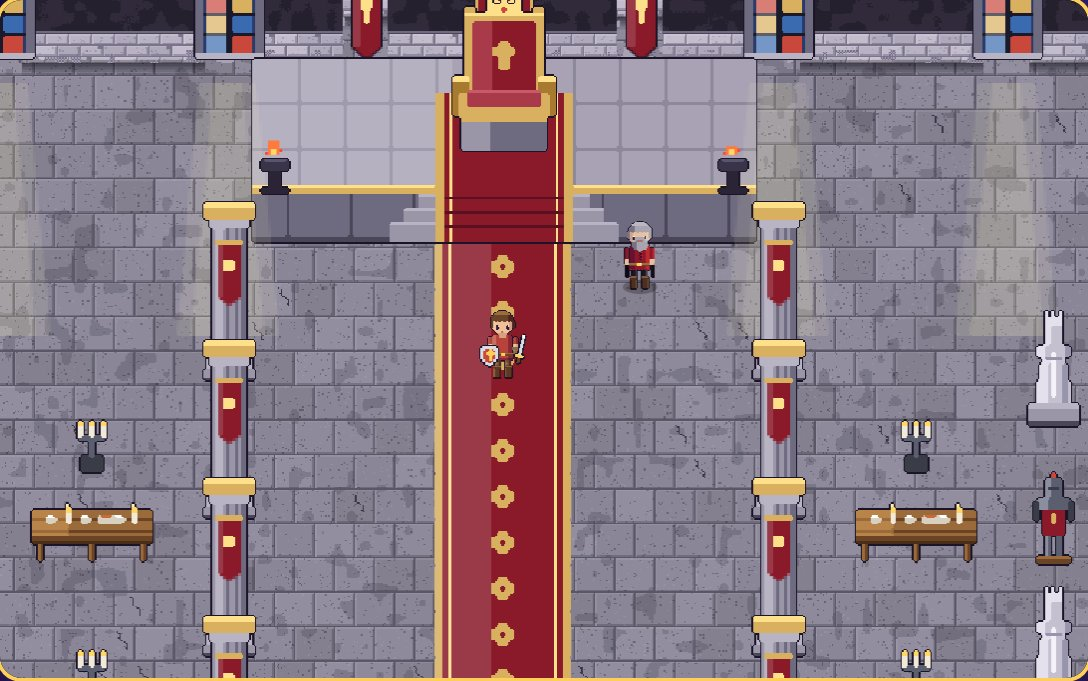
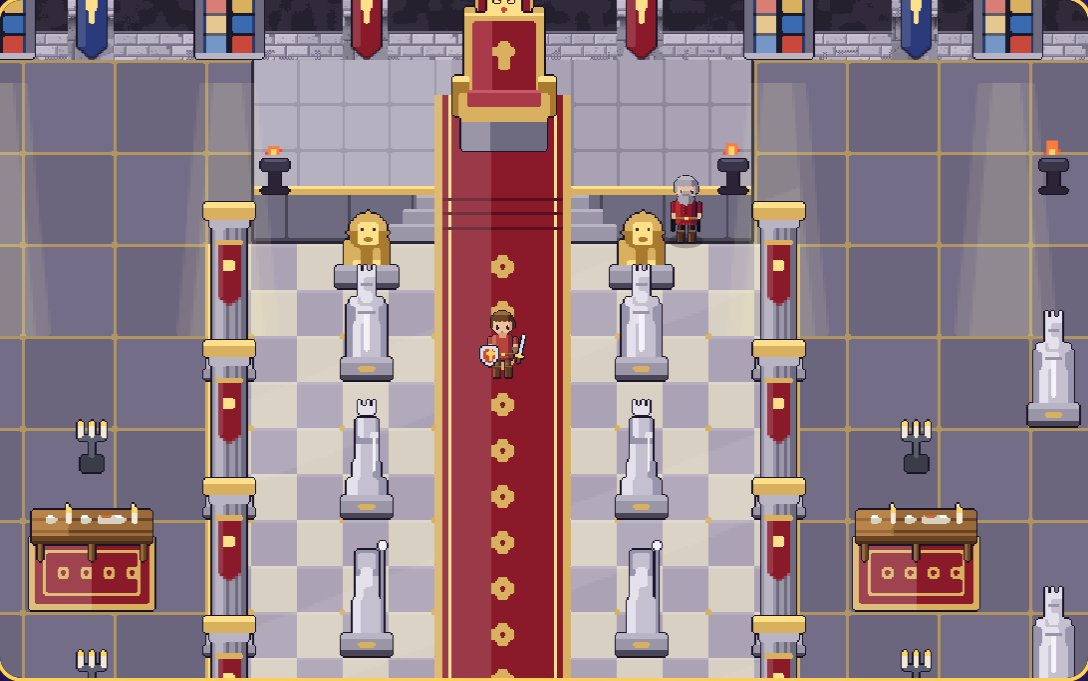
GlitchBound: Sigilfall's Great Hall lined with statues to the throne, its carpet unbroken, its floor marble wall to wall
The owner: line up the different statues sideways, as a path to the throne from both sides; connect the
carpets vertically; the surroundings glorious as well.

- A path of the realm's great in stone either side of the runner, a pair on every row of columns: kings
  (crowned and cloaked, hands on their swords) nearest the throne, then queens with scepters, sages with
  staves, and knights behind their shields nearest the door; gilt lions at the foot of the dais steps.
- One carpet from the door to the throne: the dais draws its own edge, with no line across the foot of its
  carpet where the runner meets it.
- The floor wall to wall: ivory and lilac marble with gilt studs between the colonnades, edged in gold and
  crimson; dark polished slabs with gilt seams in the aisles; the court's tables on rugs, blue banners
  between the windows, fires in the far corners.
- A floor, drawn in order of its top edge, stays in view while any of it shows.

Claude-Session: https://claude.ai/code/session_01C2NvrYDwzAvU6Wa9neeaoe

diff --git a/glitchbound/src/games/sigilfall/render/art/furniture.ts b/glitchbound/src/games/sigilfall/render/art/furniture.ts
@@ -91,6 +91,8 @@ const SIZE: Record<string, [number, number]> = {
   'great-banner': [24, 28],
   statue: [20, 42],
   'armor-stand': [18, 32],
+  lion: [26, 28],
+  'hall-floor': [464, 368],
 };
 
 const GOLD = { lit: '#ffe08a', mid: '#d8b060', dark: '#a87a30' };
@@ -397,6 +399,15 @@ export function furniture(kind: string): Cnv | null {
       rect(g, 69, 12, 1, 52, GOLD.lit);
       rect(g, 106, 12, 1, 52, GOLD.lit);
       for (const y of [48, 53, 58]) rect(g, 67, y, 42, 1, '#5a1020');
+      g.globalAlpha = 0.14;
+      rect(g, 64, 12, 20, 52, '#ffffff');
+      g.globalAlpha = 1;
+      // its own dark edge, drawn here rather than by the outliner: none across the foot of the carpet, which runs on
+      // into the runner below it unbroken
+      rect(g, 0, 0, 1, 64, '#2a2636');
+      rect(g, 175, 0, 1, 64, '#2a2636');
+      rect(g, 0, 63, 64, 1, '#2a2636');
+      rect(g, 112, 63, 64, 1, '#2a2636');
       break;
     }
     case 'high-throne':
@@ -512,47 +523,136 @@ export function furniture(kind: string): Cnv | null {
       break;
     }
     case 'statue': {
-      // a king of old in pale stone on his plinth, crowned, his sword held point down before him
+      // one of the realm's great in pale stone on a plinth with a gilt plaque (`statue:queen`, `:knight`, `:sage`;
+      // a king by default): a king crowned with his sword point down, a queen in her gown with her scepter, a knight
+      // behind his shield, a sage in his hood with his staff
       const M = { lit: '#e4e0ec', mid: '#c4c0d0', dark: '#9894ac' };
+      const who = arg ?? 'king';
       rect(g, 1, 34, 18, 8, STONE.mid);
       rect(g, 1, 34, 18, 2, STONE.lit);
       rect(g, 1, 40, 18, 2, STONE.deep);
-      rect(g, 6, 14, 8, 20, M.mid);
-      rect(g, 5, 20, 10, 14, M.mid);
-      rect(g, 4, 26, 12, 8, M.mid);
-      rect(g, 4, 26, 4, 8, M.lit);
-      rect(g, 5, 20, 3, 6, M.lit);
-      rect(g, 6, 14, 3, 6, M.lit);
-      rect(g, 13, 20, 2, 14, M.dark);
-      rect(g, 4, 14, 12, 4, M.mid);
-      rect(g, 4, 14, 3, 4, M.lit);
-      rect(g, 14, 14, 2, 4, M.dark);
-      rect(g, 7, 7, 6, 7, M.mid);
-      rect(g, 7, 7, 2, 7, M.lit);
-      rect(g, 7, 4, 6, 3, M.lit);
-      for (const x of [7, 9, 12]) rect(g, x, 2, 1, 2, M.lit);
-      rect(g, 9, 16, 2, 16, '#f4f2f8');
-      rect(g, 7, 18, 6, 1, M.dark);
+      rect(g, 7, 37, 6, 2, GOLD.mid);
+      if (who === 'queen') {
+        // her gown flaring to the plinth, her hair down to her shoulders, the crown's tall points, the scepter
+        rect(g, 6, 14, 8, 8, M.mid);
+        rect(g, 5, 22, 10, 6, M.mid);
+        rect(g, 3, 28, 14, 6, M.mid);
+        rect(g, 3, 28, 4, 6, M.lit);
+        rect(g, 5, 22, 3, 6, M.lit);
+        rect(g, 6, 14, 2, 8, M.lit);
+        rect(g, 14, 28, 3, 6, M.dark);
+        rect(g, 12, 22, 3, 6, M.dark);
+        rect(g, 6, 7, 8, 9, M.dark);
+        rect(g, 7, 7, 6, 7, M.mid);
+        rect(g, 7, 7, 2, 7, M.lit);
+        for (const x of [7, 9.5, 12]) rect(g, Math.round(x), 1, 1, 3, M.lit);
+        rect(g, 7, 3, 6, 3, M.lit);
+        rect(g, 12, 13, 1, 13, '#f4f2f8');
+        rect(g, 11, 12, 3, 2, M.lit);
+      } else if (who === 'knight') {
+        // helmed and crested, his kite shield on his arm and his sword before him
+        rect(g, 6, 14, 8, 20, M.mid);
+        rect(g, 5, 24, 10, 10, M.mid);
+        rect(g, 6, 14, 3, 20, M.lit);
+        rect(g, 4, 14, 12, 4, M.mid);
+        rect(g, 4, 14, 3, 4, M.lit);
+        rect(g, 7, 6, 6, 8, M.mid);
+        rect(g, 7, 6, 2, 8, M.lit);
+        rect(g, 8, 9, 4, 1, M.dark);
+        rect(g, 9, 2, 2, 4, M.dark);
+        rect(g, 2, 16, 7, 10, M.lit);
+        rect(g, 3, 26, 5, 3, M.lit);
+        rect(g, 4, 29, 3, 2, M.lit);
+        rect(g, 5, 18, 1, 8, M.dark);
+        rect(g, 3, 20, 5, 1, M.dark);
+        rect(g, 13, 16, 2, 16, '#f4f2f8');
+        rect(g, 11, 18, 6, 1, M.dark);
+      } else if (who === 'sage') {
+        // hooded and bearded, his staff and its orb
+        rect(g, 6, 12, 8, 22, M.mid);
+        rect(g, 5, 22, 10, 12, M.mid);
+        rect(g, 5, 22, 3, 12, M.lit);
+        rect(g, 6, 12, 3, 10, M.lit);
+        rect(g, 6, 5, 8, 9, M.dark);
+        rect(g, 7, 6, 6, 6, M.mid);
+        rect(g, 8, 11, 4, 7, M.lit);
+        rect(g, 15, 4, 1, 30, M.dark);
+        rect(g, 14, 2, 3, 3, '#f4f2f8');
+      } else {
+        // his cloak behind him to the plinth, his beard, his hands crossed on the hilt of his sword
+        rect(g, 3, 15, 14, 19, M.dark);
+        rect(g, 6, 14, 8, 20, M.mid);
+        rect(g, 5, 22, 10, 12, M.mid);
+        rect(g, 5, 22, 3, 12, M.lit);
+        rect(g, 6, 14, 3, 8, M.lit);
+        rect(g, 4, 13, 12, 3, M.mid);
+        rect(g, 4, 13, 3, 3, M.lit);
+        rect(g, 7, 6, 6, 7, M.mid);
+        rect(g, 7, 6, 2, 7, M.lit);
+        rect(g, 8, 8, 4, 1, M.dark);
+        rect(g, 8, 11, 4, 4, M.lit);
+        rect(g, 7, 4, 6, 2, M.lit);
+        for (const x of [7, 9, 12]) rect(g, x, 2, 1, 2, M.lit);
+        rect(g, 9, 19, 2, 13, '#f4f2f8');
+        rect(g, 7, 18, 6, 1, M.dark);
+        rect(g, 8, 16, 4, 2, M.lit);
+      }
       break;
     }
-    case 'armor-stand':
-      // a knight's harness on its stand, the crown's colors on its tabard
-      rect(g, 3, 29, 12, 3, WOOD.dark);
-      rect(g, 3, 29, 12, 1, WOOD.mid);
-      rect(g, 6, 20, 2, 9, IRON.mid);
-      rect(g, 10, 20, 2, 9, IRON.mid);
-      rect(g, 6, 20, 1, 9, IRON.lit);
-      rect(g, 5, 12, 8, 10, tint ?? '#8a1a2a');
-      rect(g, 8, 14, 2, 4, GOLD.mid);
-      rect(g, 3, 9, 12, 4, IRON.mid);
-      rect(g, 3, 9, 4, 4, IRON.lit);
-      rect(g, 2, 10, 2, 7, IRON.dark);
-      rect(g, 14, 10, 2, 7, IRON.dark);
-      rect(g, 6, 2, 6, 7, IRON.mid);
-      rect(g, 6, 2, 2, 7, IRON.lit);
-      rect(g, 7, 5, 4, 1, IRON.dark);
-      rect(g, 8, 0, 2, 2, '#c9473b');
+    case 'lion':
+      // a gilt lion sitting up on its plinth, its mane about its face, its forepaws together
+      rect(g, 2, 20, 22, 8, STONE.mid);
+      rect(g, 2, 20, 22, 2, STONE.lit);
+      rect(g, 2, 26, 22, 2, STONE.deep);
+      rect(g, 5, 11, 16, 9, GOLD.dark);
+      rect(g, 5, 11, 5, 9, GOLD.mid);
+      for (let y = -7; y <= 7; y++) {
+        const w = Math.floor(Math.sqrt(49 - y * y));
+        rect(g, 13 - w, 8 + y, w * 2 + 1, 1, y < 0 ? GOLD.mid : GOLD.dark);
+      }
+      rect(g, 10, 5, 7, 8, GOLD.lit);
+      rect(g, 11, 7, 1, 1, '#3a2a10');
+      rect(g, 15, 7, 1, 1, '#3a2a10');
+      rect(g, 12, 10, 3, 2, GOLD.dark);
+      rect(g, 8, 14, 3, 6, GOLD.mid);
+      rect(g, 15, 14, 3, 6, GOLD.mid);
+      rect(g, 8, 18, 3, 2, GOLD.lit);
+      rect(g, 15, 18, 3, 2, GOLD.lit);
       break;
+    case 'hall-floor': {
+      // the Great Hall's floor, wall to wall from the dais to the door (laid flat, its own edges): dark polished slabs
+      // with gilt seams in the aisles; between the colonnades (from 128 to 336, below the dais) ivory and lilac
+      // marble with a gilt stud where four stones meet, a band of gold and crimson down each side and across its foot
+      for (let y = 0; y < 368; y += 32) for (let x = 0; x < 464; x += 32) rect(g, x, y, 32, 32, (x / 32 + y / 32) % 2 ? '#5c5470' : '#655d7a');
+      for (let y = 0; y < 368; y += 32) rect(g, 0, y, 464, 1, '#a88a50');
+      for (let x = 0; x < 464; x += 32) rect(g, x, 0, 1, 368, '#a88a50');
+      g.globalAlpha = 0.1;
+      rect(g, 0, 0, 464, 368, '#ffffff');
+      g.globalAlpha = 1;
+      for (let y = 64; y < 368; y += 16) for (let x = 128; x < 336; x += 16) rect(g, x, y, 16, 16, ((x - 128) / 16 + (y - 64) / 16) % 2 ? '#aca2b6' : '#d8d0c2');
+      for (let y = 64; y < 368; y += 16) rect(g, 128, y, 208, 1, '#ffffff22');
+      for (let y = 96; y < 368; y += 32) for (let x = 144; x < 336; x += 32) rect(g, x - 1, y - 1, 2, 2, GOLD.mid);
+      g.fillStyle = '#ffffff';
+      g.globalAlpha = 0.08;
+      for (let k = 0; k < 4; k++) {
+        g.beginPath();
+        g.moveTo(128, 124 + k * 80);
+        g.lineTo(336, 44 + k * 80);
+        g.lineTo(336, 74 + k * 80);
+        g.lineTo(128, 154 + k * 80);
+        g.fill();
+      }
+      g.globalAlpha = 1;
+      for (const x of [128, 329]) {
+        rect(g, x, 64, 7, 304, GOLD.mid);
+        rect(g, x + 1, 64, 1, 304, GOLD.lit);
+      }
+      rect(g, 135, 64, 2, 304, '#5a1020');
+      rect(g, 327, 64, 2, 304, '#5a1020');
+      rect(g, 128, 362, 208, 6, GOLD.mid);
+      rect(g, 128, 362, 208, 1, GOLD.lit);
+      break;
+    }
     case 'forge':
       rect(g, 1, 8, 30, 20, STONE.dark);
       rect(g, 1, 8, 9, 20, STONE.mid);
@@ -602,7 +702,10 @@ export function furniture(kind: string): Cnv | null {
 }
 
 /** Furniture laid flat on the floor (drawn under the people standing on it). */
-export const FLAT_FURNITURE = new Set(['rug', 'runner', 'dais', 'sunbeam']);
+export const FLAT_FURNITURE = new Set(['rug', 'runner', 'dais', 'sunbeam', 'hall-floor']);
 
-/** Furniture drawn without an outline: a runner laid end to end, a window's light on the floor. */
-export const BARE_FURNITURE = new Set(['runner', 'sunbeam']);
+/**
+ * Furniture drawn without an outline: a runner laid end to end, a window's light on the floor, and the floors
+ * that draw their own edge (the dais's carpet runs on into the runner, without a line across it).
+ */
+export const BARE_FURNITURE = new Set(['runner', 'sunbeam', 'dais', 'hall-floor']);

diff --git a/glitchbound/src/games/sigilfall/data/interiors.ts b/glitchbound/src/games/sigilfall/data/interiors.ts
@@ -188,34 +188,54 @@ function emberHearth(): CityPlan {
 /* ------------------------------------------------------ the Crown City: the Great Hall */
 
 /**
- * The Great Hall of the Ember Keep (the owner: "inside also seems empty, make it feel glorious"): a long hall
- * of columns under tall windows of colored glass, their light across the floor; a crimson runner from the
- * door up the steps of the dais to the high throne between its braziers, the crown's banner over it; the kings
- * and queens of old in stone along the walls, armor between them; the court's long tables in the aisles.
+ * The Great Hall of the Ember Keep (the owner: "inside also seems empty, make it feel glorious"; then: the statues
+ * lined up either side as a path to the throne, the carpets joined, all round it glorious): a long hall of
+ * columns under tall windows of colored glass, their light across the floor; a floor of dark polished stone with
+ * gilt seams, and between the colonnades one of ivory marble edged in gold, and down it the crimson runner from the door up the steps of the dais to the
+ * high throne between its braziers, the crown's banner over it, gilt lions at the foot of the steps; either side
+ * of the runner the realm's great in stone, kings, queens, knights and sages, a path of them to the throne; in the
+ * aisles the old kings along the walls, armor between them, the court's long tables on their rugs.
  */
 function greatHall(): CityPlan {
   const c = room(31, 26, 822, false, 15, { to: 'emberwick', label: 'Out into the Crown City' });
-  // the north wall: its windows, the crown's banner over the throne, banners either side of it
+  // the north wall: its windows, the crown's banner over the throne, banners either side of it and between them
   for (const x of [4, 9, 21, 26]) {
     c.prop('window', x, 1);
     c.prop('sunbeam', x, 7, false);
   }
   c.prop('great-banner', 15, 1);
   for (const x of [12, 18]) c.prop('banner:#8a1a2a', x, 1);
-  // the dais and the high throne on it, between its braziers; the Steward at its foot
+  for (const x of [6, 24]) c.prop('banner:#2a3a7a', x, 1);
+  // the floor, wall to wall (laid before the dais, which stands on it); the dais and the high throne on it, between
+  // its braziers; the Steward beside it
+  c.prop('hall-floor', 15, 24, false);
   c.prop('dais', 15, 5, false);
   wide(c, 'high-throne', 15, 3, 3);
   c.set(10, 4, 'brazier');
   c.set(20, 4, 'brazier');
-  c.npc('steward-aldous', 18, 6);
-  // the runner, from the door to the dais
+  c.npc('steward-aldous', 19, 5);
+  // the runner from the door to the dais (its carpet runs on up the steps)
   for (let y = 6; y <= 24; y++) c.prop('runner:#8a1a2a', 15, y, false);
+  // gilt lions at the foot of the steps; then the path of the realm's great in stone either side of the runner, up
+  // to them from the door: knights nearest the door, then sages, queens and kings nearest the throne
+  c.prop('lion', 12, 6);
+  c.prop('lion', 18, 6);
+  for (const [y, who] of [
+    [8, 'king'],
+    [11, 'queen'],
+    [14, 'sage'],
+    [17, 'knight'],
+    [20, 'knight'],
+  ] as const) {
+    c.prop(`statue:${who}`, 12, y);
+    c.prop(`statue:${who}`, 18, y);
+  }
   // the colonnades, the crown's banner on every column
   for (const y of [8, 11, 14, 17, 20]) {
     c.prop('column:#8a1a2a', 9, y);
     c.prop('column:#8a1a2a', 21, y);
   }
-  // the aisles: the kings and queens of old in stone along the walls, armor between them
+  // the aisles: the old kings in stone along the walls, armor between them, fires in the corners
   for (const y of [9, 15, 21]) {
     c.prop('statue', 3, y);
     c.prop('statue', 27, y);
@@ -224,7 +244,11 @@ function greatHall(): CityPlan {
     c.prop('armor-stand', 3, y);
     c.prop('armor-stand', 27, y);
   }
-  // the long tables of the court, and from the Night of Knives the war council's map and its racks of arms
+  c.set(3, 4, 'brazier');
+  c.set(27, 4, 'brazier');
+  // the long tables of the court on their rugs, and from the Night of Knives the war council's map and its racks
+  c.prop('rug:#8a1a2a', 6, 13, false);
+  c.prop('rug:#8a1a2a', 24, 13, false);
   wide(c, 'longtable', 6, 12, 3, not(after('festival-the-knives')));
   wide(c, 'war-table', 6, 12, 3, after('festival-the-knives'));
   wide(c, 'longtable', 24, 12, 3);

diff --git a/glitchbound/tests/sigilfall-ember-keep.test.ts b/glitchbound/tests/sigilfall-ember-keep.test.ts
@@ -92,9 +92,28 @@ describe('Sigilfall: the Ember Keep', () => {
     expect(props('dais')[0]!.tx).toBe(throne.tx);
     expect(m.kind[(throne.ty + 1) * m.w + throne.tx - 5]).toBe(K.Brazier);
     expect(m.kind[(throne.ty + 1) * m.w + throne.tx + 5]).toBe(K.Brazier);
-    // glorious, not empty: colonnades, windows, the old kings in stone
+    // glorious, not empty: colonnades, windows, a floor wall to wall
     expect(props('column').length).toBeGreaterThanOrEqual(10);
     expect(props('window').length).toBeGreaterThanOrEqual(4);
-    expect(props('statue').length).toBeGreaterThanOrEqual(6);
+    expect(props('hall-floor')).toHaveLength(1);
+  });
+
+  it('the realm’s great in stone line the runner either side, a path of them to the throne, gilt lions at the steps', () => {
+    const m = parseRegion(REGIONS['great-hall']);
+    const at = (name: string) => m.markers.filter((pm) => pm.marker.kind === 'prop' && pm.marker.prop.split(':')[0] === name);
+    const runner = at('runner')[0]!.tx;
+    const path = at('statue').filter((pm) => Math.abs(pm.tx - runner) === 3);
+    const rows = [...new Set(path.map((pm) => pm.ty))];
+    expect(rows.length).toBeGreaterThanOrEqual(5);
+    // a pair on every row, the same figure either side, and no two rows alike all the way up
+    for (const y of rows) {
+      const pair = path.filter((pm) => pm.ty === y).map((pm) => (pm.marker.kind === 'prop' ? pm.marker.prop : ''));
+      expect(pair, `row ${y}`).toHaveLength(2);
+      expect(pair[0], `row ${y}`).toBe(pair[1]);
+    }
+    expect(new Set(path.map((pm) => (pm.marker.kind === 'prop' ? pm.marker.prop : ''))).size).toBeGreaterThanOrEqual(4);
+    const lions = at('lion');
+    expect(lions.map((pm) => pm.tx - runner).sort()).toEqual([-3, 3]);
+    expect(Math.min(...rows)).toBeGreaterThan(lions[0]!.ty);
   });
 });

diff --git a/glitchbound/src/games/sigilfall/render/renderer.ts b/glitchbound/src/games/sigilfall/render/renderer.ts
@@ -383,8 +383,10 @@ export class Renderer {
     const inView = (x: number, y: number, m = 40): boolean => x > ox - m && x < ox + this.vw + m && y > oy - m && y < oy + this.vh + 60;
     for (const o of sc.objects) {
       const ow = (o.src ? (o.anim ? o.anim.w : o.src[2]) : o.c.width) / (o.k ?? DETAIL);
-      // (a big picture is in view while any of it is: the Crown City's keep is wider than the margin)
-      if (o.x + ow / 2 < ox - 70 || o.x - ow / 2 > ox + this.vw + 70 || o.y < oy - 70 || o.y + o.dy > oy + this.vh + 60) continue;
+      const oh = (o.src ? o.src[3] : o.c.height) / (o.k ?? DETAIL);
+      // (a big picture is in view while any of it is: the Crown City's keep is wider than the margin, and a hall's
+      // floor, drawn in order of its top edge, runs on far below it)
+      if (o.x + ow / 2 < ox - 70 || o.x - ow / 2 > ox + this.vw + 70 || o.y + o.dy + oh < oy - 70 || o.y + o.dy > oy + this.vh + 60) continue;
       const come = o.born === undefined ? 1 : clamp((time - o.born) / PROP_FADE, 0, 1);
       const left = o.gone === undefined ? 1 : 1 - (time - o.gone) / PROP_FADE;
       if (left <= 0) continue;

diff --git a/glitchbound/src/games/sigilfall/SIGILFALL_QA.md b/glitchbound/src/games/sigilfall/SIGILFALL_QA.md
@@ -455,6 +455,19 @@ feel glorious".
     replace one table, as before.
   - The new pieces are drawn in the game's own furniture style: the runner, the dais, the throne, the columns,
     the windows, the light, the great banner, the statues and the armor.
+- **Inside, second pass.** The owner: line up the different statues sideways, as a path to the throne from both
+  sides; connect the carpets vertically; make the surroundings glorious as well.
+  - A path of statues lines the runner on both sides, one pair on every row of columns. Nearest the throne are
+    kings (crowned and cloaked, hands on their swords), then queens with scepters, then sages with staves, then
+    knights behind their shields nearest the door.
+  - Gilt lions sit on plinths at the foot of the dais steps.
+  - The carpet is one piece from the door to the throne: the dais draws its own edge, with no line across the
+    foot of its carpet where the runner meets it.
+  - The floor runs wall to wall. Between the colonnades it is ivory and lilac marble with gilt studs, edged in gold
+    and crimson. The aisles are dark polished slabs with gilt seams.
+  - The court's tables stand on rugs, blue banners hang between the windows, and fires burn in the far corners.
+  - A floor, drawn in order of its top edge, is kept in view while any of it shows (it had vanished from the
+    view at the door).
 - **Fixes along the way:**
   - A picture drawn bigger than its own pixels is drawn smoothly, and the view keeps any big picture while any
     of it is on screen.
@@ -463,7 +476,8 @@ feel glorious".
 - Checked:
   - a new test (`tests/sigilfall-ember-keep.test.ts`): the keep's size, its towers, its dark stone and its door;
     the reveal playing before the Regent's scene; the runner unbroken from the door to the dais, and the
-    throne between its braziers;
+    throne between its braziers; the path of statues either side of the runner (a pair on each row, at least
+    four kinds), and the lions at the steps;
   - the buildings and scenes tests updated: a door painted on a bigger picture; a scene looking at a building;
   - in the browser: the reveal, the forecourt by day and on the Night of Knives, the keep's side by the
     barracks, and the hall from its throne, from its door and as the war room.

diff --git a/glitchbound/docs/review/README.md b/glitchbound/docs/review/README.md
@@ -25,7 +25,7 @@ rollback point.
 | `hearts/` | Every land's heart its own (a well, a fish market, a healer's cauldron, an oasis, a shrine, a bonfire, a muster, a flower ring, a harvest tree, crystals, a totem, a forge), the open ground of the bare lands, Briarhollow's gate towers and square, Emberwick's market with each stall's goods beside it | the one-pack branch, fourth pass |
 | `cinematics/` | The rider walking in, falling, talking and fading (`1-`–`4-`); the shots that open the great fights, with their titles (Hearthstead, the Pale Herald, the Field Before the Hall, the Last March, the Night of Knives) and a boss met for the first time (`5-`–`10-`); the map: as it opens, a land zoomed, another land picked, an unexplored land all black, the world zoomed, and on a phone (`11-`–`16-`); the second pass: the act titles (Prologue, Act II), a land's title, a story talk framed and a place discovered on a phone, the shots of the rangers walking in, the cells, the snow and the ram, a boss's last blow slowed (`17-`–`26-`) | the cinematics branch |
 | `polish/` | The owner's remarks after the cinematics: Oskar the same size walking in and fallen, the shield on the front in every facing, the chapel lit at night, the chapel's own door held (no door drawn over it) (`1-`–`4-`); every quest checked for the same faults: Duskfen's caravan with its refugees out of the house and on the road, people no longer hidden behind stalls, pavilions and statues (before and after), Fernstead's camp before its tents, people at night with their own light, the boats moored in the water (`5-`–`10-`) | the remarks branch |
-| `keep/` | The Ember Keep before (`0-`) and after: the camera climbing it the first time up the avenue, its forecourt by day and on the Night of Knives; the Great Hall from its throne, from its door, and as the war room | the keep branch |
+| `keep/` | The Ember Keep before (`0-`) and after: the camera climbing it the first time up the avenue, its forecourt by day and on the Night of Knives; the Great Hall from its throne, from its door, and as the war room (with the path of statues to the throne, the lions at the steps, the marble floor) | the keep branch |
 
 ## Heavy scene (Prompt 16)
 
